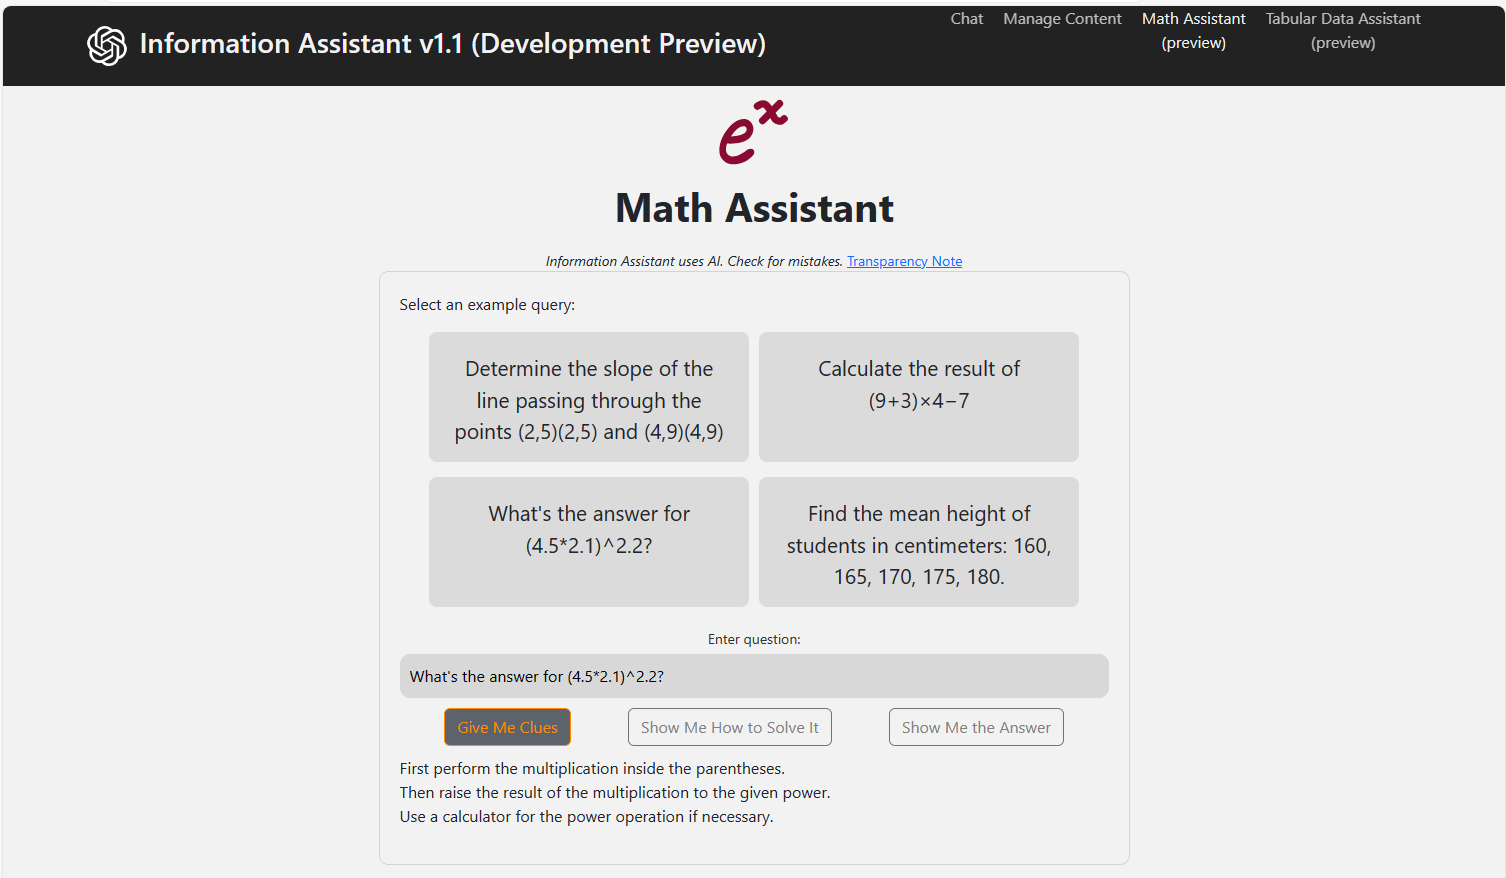
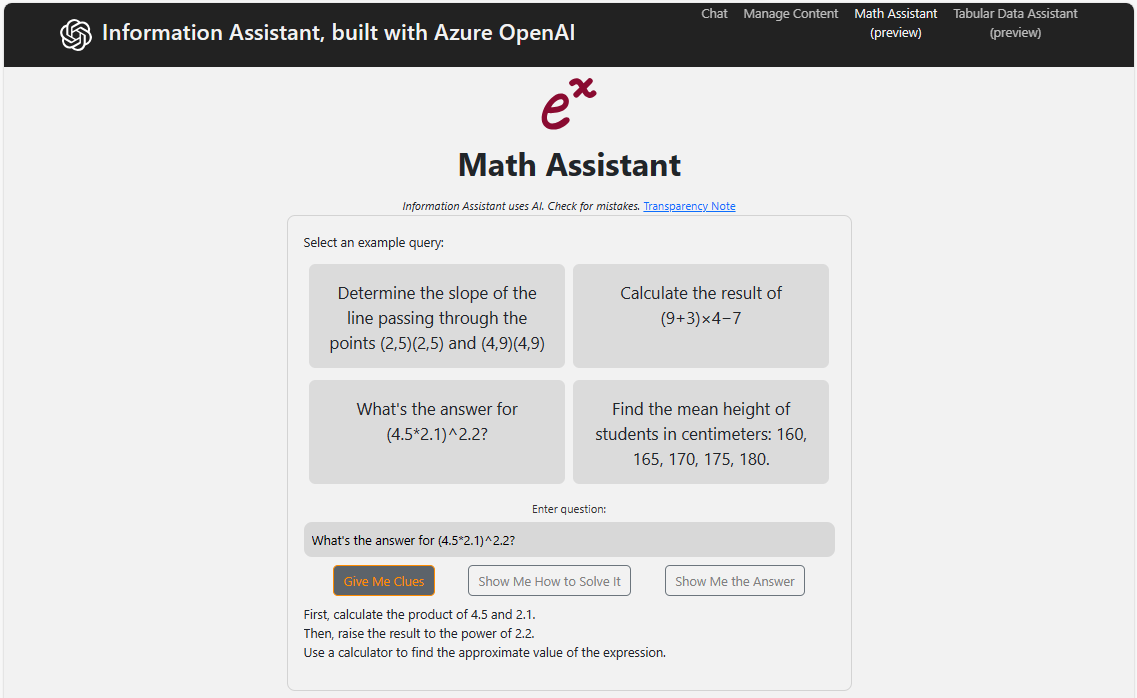
updated screen captures and text for grounding

diff --git a/docs/features/user_experience.md b/docs/features/user_experience.md
@@ -4,9 +4,9 @@ The end user leverages the web interface as the primary method to engage with th
 
 ## Having a conversation with your data
 
-When you use the "Chat" capabilities, the system maintains a history for your conversation and will be able to understand the context of your questions from one question to the next in a conversation flow.
+When you use the "Chat" capabilities, the system maintains a history for your conversation and will be able to understand the context of your questions from one question to the next in a conversation flow. History is at the session level and not persisted. When your session goes away, so does your conversational history.
 
-> You may activate the Chat engagement pattern by choosing the "Chat" link at the top right side of the page
+> Activate the Chat engagement pattern by choosing the "Chat" link at the top right side of the page
 
 > ![Chat Link](/docs/images/info-assist-chat-ui.png)
 
@@ -14,15 +14,15 @@ There are new modes that extend the Information Assistant user experience. Simil
 
 ## Work Only
 
-Work Only mode provides the natural language conversation with your data that you are familiar with from previous versions of Information Assistant.
+Work Only mode provides the natural language conversation with your data that you are familiar with from previous versions of Information Assistant. In this mode, the user is limited to interacting with their private data they upload into the Information Assistant. The color scheme for Work Only mode is intentionally the same as M365 Copilot.
 
 ## Work + Web
 
-The Work + Web mode experience starts similar to Work Only mode. It provides new options in the response enabling the user to __Searh Web__ to see if there is newer information available or __Compare with Web__ to compare the response from their data with information available on the web. 
+The Work + Web mode experience starts similar to Work Only mode. It provides new options in the response enabling the user to __Searh Web__ to see if there is newer information available or __Compare with Web__ to compare the response from their data with information available on the web. In this mode the user can choose to ask questions and have the grounding data be either sourced from private data they upload or web search results from the Bing Search service. The default grounding mode can be changed in the Adjust settings located on the top right just below the Assistants preview links.
 
 ![Chat Link](/docs/images/work-plus-web-ui.png)
 
-Selecting either of these options changes the user experience as follows:
+Selecting the __Search Web__ or __Compare with Web__ options changes the user experience as follows:
 
 ### Search Web
 
@@ -30,7 +30,14 @@ Selecting __Search Web__ from a Work Only response asks the same question on the
 
 ![Chat Link](/docs/images/work-plus-web-search-web.png)
 
-Options in the __Search Web__ response include Search Work and Compare with Work.
+Options in the __Search Web__ response include __Search Work__ and __Compare with Work__.
+
+The __Search Work__ option in the Web response works similar to the __Search Web__ option found in the Work Only response. When using the __Work + Web__ mode users can choose to ground in either Work or the Web by default. Default grounding can be changed in the Adjust settings located on the top right just below the Assistants preview links.
+
+![Chat Link](/docs/images/adjust-settings-ui.png)
+![Chat Link](/docs/images/configure-answer-generation.png)
+
+
 
 ### Compare with Web
 
@@ -38,7 +45,25 @@ Selecting __Compare with Web__ from a Work Only response asks the same question 
 
 ![Chat Link](/docs/images/work-plus-web-compare-with-web.png)
 
-The Compare with Web response includes both work and web citations.
+
+With different grounding settings in the __Work + Web__ mode, the compare option can be Work compared to Web or Web compared to Work.
+
+![Chat Link](/docs/images/work-plus-web-compare-with-work.png)
+
+The __Compare__ response includes both work and web citations. Selecting a citation activates the analysis panel.
+
+
+## Analysis Panel
+
+The Analysis Panel in the UX allows the user to explore the details about the answer to their question:
+
+* Thought Process
+* Supporting Content
+* [Citations](/docs/features/ux_analysispanel.md#citations)
+
+View the details of the [Analysis Panel](/docs/features/ux_analysispanel.md) feature or you can click on each section to get more specifics of that detail tab.
+
+
 
 ## Generative
 
@@ -54,17 +79,17 @@ The Math Assistant combines natural language understanding with robust mathemati
 
 ![Chat Link](/docs/images/math-assistant-ui.png)
 
-Users can select an example query or enter their own math question. There are three options below the question promt where the user can ask for clues, ask the assistant to show them how to solve the math problem, or simply provide an answer.
+Users can select an example query or enter their own math question. There are three options below the question prompt where the user can ask for clues, ask the assistant to show them how to solve the math problem, or simply provide an answer.
 
 ### Give me clues
 
-Give me clues will assist the user without providing the answer or showing them how to solve the problem.
+Give me clues will assist the user without answering the math question or providing step by step instructions to solve the problem.
 
 ![Chat Link](/docs/images/math-assistant-give-me-clues.png)
 
 ### Show me how to Solve it
 
-Show me how to Solve it illustrates the process steps to solve the math problem then provides the answer.
+Show me how to Solve it presents the user with ordered steps they can perform to answer the math question.
 
 ![Chat Link](/docs/images/math-assistant-show-me-how-to-solve.png)
 
@@ -76,55 +101,55 @@ Show Me the Answer works like a calculator and simply provides the answer to the
 
 ## Tabular Data Assistant
 
-The Tabular Data Assistants allows users to ask natural language questions about tabular data stored in CSV files and extract insights from structured datasets with the ability to filter, aggregate, and perform computations on CSV data.
+The Tabular Data Assistants allows users to ask natural language questions about tabular data in CSV files and extract insights from structured datasets with the ability to filter, aggregate, and perform computations on CSV data.
 
 First, the user must upload a CSV file. They can drag and drop the file onto the Tabular Data Assistant UI or browse their file system(s) to select files then click the Upload File button.
 
 ![Chat Link](/docs/images/tab-data-assist-upload-files-ui.png)
 
-Once a file has been uploaded the user can select an example query or enter thier own question about the CSV file.
+Once a file has been uploaded the user can select an example query or enter thier own question about content in the CSV file.
 
-![Chat Link](/docs/images/tab-data-assist-how-many-rows.png)
-
-## Analysis Panel
-
-The Analysis Panel in the UX allows the user to explore three details about the answer to their question:
-
-* Thought Process
-* Supporting Content
-* [Citations](/docs/features/ux_analysispanel.md#citations)
-
-View the details of the [Analysis Panel](/docs/features/ux_analysispanel.md) feature or you can click on each section to get more specifics of that detail tab.
+![Chat Link](/docs/images/tab-data-assist-how-many.png)
 
 ## Manage Content
 
 When you engage with IA Accelerator in the "Manage Content" method, the system allows you to add new content and see the status of processing for content previously loaded into the IA Accelerator.
 
 > You may activate the Manage Content engagement pattern by choosing the "Manage Content" link at the top of the page
-> ![Manage Content Link](/docs/images/manage-content-interface.png)
+> ![Manage Content Link](/docs/images/manage-content-ui.png)
 
 ### Uploading files
 
-You can upload documents in the [supported formats listed above](/docs/features/features.md#document-pre-processing) through the user interface. To do so:
+You can upload documents in the [supported formats](/docs/features/features.md#document-pre-processing) through the user interface. To do so:
 
 > 1. Click on the Manage Content link in the top of the interface
-> ![Manage Content](/docs/images/manage-content-interface.png)
 > 1. Then click on the "Upload files" tab.
-> ![Upload Link](/docs/images/upload-files-link.png)
-> 1. Select a folder, add some tags, and drag files to the user interface, or click the box to open a browse window
-> ![Upload Link Drag and Drop](/docs/images/upload-files-drag-drop.jpg)
+> ![Upload Link](/docs/images/manage-content-upload-files.png)
+> 1. Select a folder, add some tags, and drag files to the user interface, or click the box to open a browse window, select file(s) then click the __Upload Files__ button.
+
+> ![Upload Files Link](/docs/images/manage-content-upload-files-1.png)
 
 ### View upload status
 
-You can view the status up files that have been uploaded to the system through the user interface. To do so:
+You can view the status of files that have been uploaded to the system through the user interface. To do so:
 
 > 1. Click on the Manage Content link in the top of the interface
-> ![Manage Content](/docs/images/manage-content-interface.png)
+> ![Manage Content](/docs/images/manage-content-ui.png)
 > 1. Then click on the "Upload Status" tab.
-> ![Upload Status Link](/docs/images/view-upload-status-link.png)
-> 1. At the top of the page you can filter your list of files by the folder they are in, the tags you applied during upload, or by the time frame of when they were uploaded from '4 hours' minimum to 'All' which will show all files. By clicking 'Refresh' after selecting your desired filters, the documents matching your criteria will be displayed. In the table of documents you can see the high level file state, a status detail message, the folder it is hosted in and the applied tags. If you wish to delete some files, select a file, multiple files or all files using the selection options on the left column of the table. Then click delete and confirm. You will then see a message in the bottom right of the screen indicating that this process can take up to 10 minutes, so refresh the screen and track progress.
+> ![Upload Status Link](/docs/images/manage-content-upload-status.png)
+> 1. At the top of the page you can filter your list of files by the folder they are in, the tags you applied during upload, or by the time frame of when they were uploaded from '4 hours' minimum to 'All' which will show all files. By clicking 'Refresh' after selecting your desired filters, the documents matching your criteria will be displayed. In the table of documents you can see the high level file state, a status detail message, the folder it is hosted in and the applied tags. 
 
-> ![Upload Status Options and Refresh Links](/docs/images/view-upload-status-options-and-refresh.png)
+### Delete Content
+
+Users can delete documents through the same Manage Content UI they use to review the status of files they have uploaded. If you wish to delete some files, select a file, multiple files or all files using the selection options on the left column of the table. Then click delete and confirm. You will then see a message in the bottom right of the screen indicating that this process can take up to 10 minutes, so refresh the screen and track progress. Follow the steps outlined below to delete files:
+
+1. __Access the Manage Content UI__: Select the __Manage Content__ tab located at the top right.
+2. __Filter Your Files__: On the left, select __Upload Status__ then use the dropdown lists to apply any desired filters.
+3. __Refresh the List__: Click the __Refresh__ icon to update the list of files based on your filters.
+4. __Delete a File__: Once the filtered list appears, select the file you want to delete. Then, click the __Delete__ link located to the right of the Refresh link.
+
+> ![Upload Status Options and Refresh Links](/docs/images/manage-content-delete.png)
+
 
 ### Using sample data - optional
 

diff --git a/docs/features/features.md b/docs/features/features.md
@@ -116,18 +116,11 @@ The end user leverages the web interface as the primary method to engage with th
 
 ## Document Deletion
 
-There are multiple options to for deleting documents in the IA Accelerator. Most users will perform document deletion in the UI, while experience technical users may opt for deleting files through the underlying infrastructure.
+There are multiple options to for deleting documents in the IA Accelerator. Most users will perform document deletion in the UI, while experience technical users may opt for deleting files through the underlying infrastructure. Document deletions are not instantaneous and can take up to ten minutes to propogate through all components of the system.
 
 ### File Deletion in the UI
 
-Users can delete documents through the same Manage Content UI they use to review the status of files they have uploaded. Follow the steps outlined below to delete files:
-
-1. __Access the Manage Content UI__: Select the __Manage Content__ tab located at the top right.
-2. __Filter Your Files__: On the left, select __Upload Status__ then use the dropdown lists to apply any desired filters.
-3. __Refresh the List__: Click the __Refresh__ icon to update the list of files based on your filters.
-4. __Delete a File__: Once the filtered list appears, select the file you want to delete. Then, click the __Delete__ link located to the right of the Refresh link.
-
-![Upload Status](/docs/images/upload-status-delete.png)
+Users can delete documents through the same Manage Content UI they use to review the status of files they have uploaded. They can use filters to locate documents, view detailed status and history of the document, then optionally delete the document. Additional information on document management, including how to upload, search, filter content and delete documents is availabe on the [User Experience](/docs/features/user_experience.md) page.
 
 ### Technical File Deletion from the upload container
 
